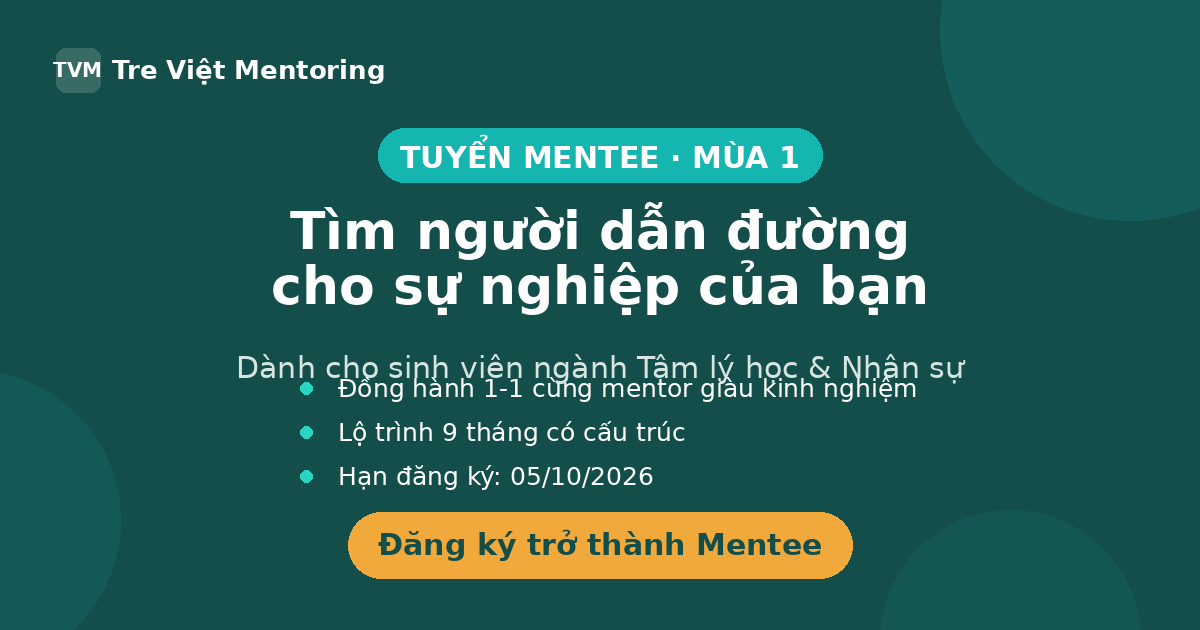
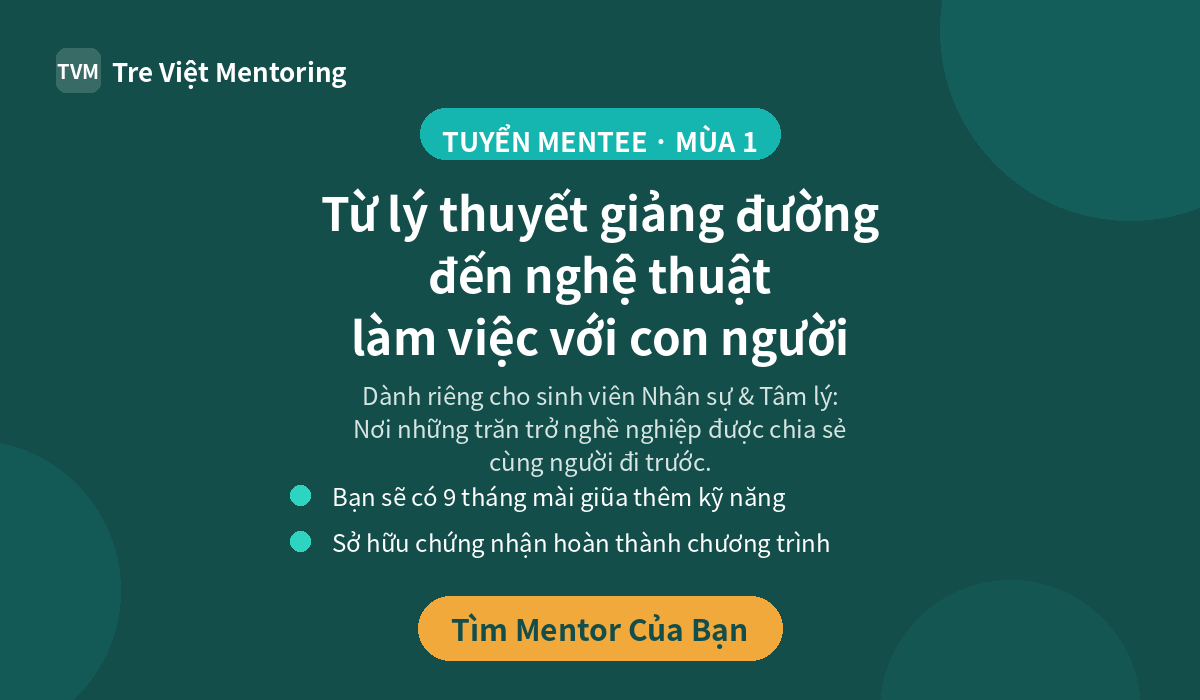
feat: chỉnh poster tuyển mentee theo hướng truyền cảm hứng (tiêu đề mới, CTA Tìm Mentor Của Bạn) + cải thiện font tiếng Việt Noto CJK + cân đối bố cục

Changed region(s): [[0.185, 0.1508, 0.8017, 0.9651], [0.0308, 0.0603, 0.3392, 0.1508]]

diff --git a/scripts/make_recruit_images.py b/scripts/make_recruit_images.py
@@ -3,7 +3,9 @@
 from PIL import Image, ImageDraw, ImageFont
 import os
 
-W, H = 1200, 630  # tỉ lệ news card ~ 1.9:1
+W = 1200
+H_MENTEE = 700
+H_MENTOR = 700
 
 # Brand Tre Việt Mentoring (khớp landing page)
 GREEN_DARK = "#134E4A"   # xanh rêu đậm (nền)
@@ -14,22 +16,17 @@ WHITE = "#FFFFFF"
 GOLD = "#F2A93B"         # nhấn amber (dùng tiết chế)
 MUTED = "#D7E5E2"        # chữ phụ trên nền tối
 
-FONT_DIR = "/usr/share/fonts/truetype"
+FONT_DIR = "/usr/share/fonts"
 def find_font(names):
     for root, _, files in os.walk(FONT_DIR):
         for f in files:
             if f.lower() in names:
                 return os.path.join(root, f)
-    for root, _, files in os.walk(FONT_DIR):
-        for f in files:
-            if f.lower().endswith((".ttf", ".otf")):
-                # fallback: ưu tiên DejaVu
-                if "dejavu" in f.lower():
-                    return os.path.join(root, f)
     return None
 
-BOLD = find_font({"dejavusans-bold.ttf", "dejavusans-bold.obf"})
-REG  = find_font({"dejavusans.ttf", "dejavusans.obf"})
+# Ưu tiên font Noto Sans CJK (hỗ trợ đầy đủ tiếng Việt), fallback DejaVu
+BOLD = find_font({"notosanscjk-bold.ttc"}) or find_font({"notosanscjk-regular.ttc"}) or find_font({"dejavusans-bold.ttf"})
+REG  = find_font({"notosanscjk-regular.ttc"}) or find_font({"dejavusans.ttf"})
 print("BOLD:", BOLD)
 print("REG:", REG)
 
@@ -42,13 +39,13 @@ def rounded(draw, xy, r, fill):
     except TypeError:
         draw.rectangle(xy, fill=fill)
 
-def base():
-    img = Image.new("RGB", (W, H), GREEN_DARK)
+def base(h):
+    img = Image.new("RGB", (W, h), GREEN_DARK)
     d = ImageDraw.Draw(img, "RGBA")
     # lớp trang trí: vòng tròn mờ teal
     d.ellipse([W-260, -160, W+120, 220], fill=(21,181,176, 40))
-    d.ellipse([-180, H-260, 120, H+40], fill=(21,181,176, 28))
-    d.ellipse([W-320, H-120, W-60, H+140], fill=(21,181,176, 20))
+    d.ellipse([-180, h-260, 120, h+40], fill=(21,181,176, 28))
+    d.ellipse([W-320, h-120, W-60, h+140], fill=(21,181,176, 20))
     return img, d
 
 def pill(d, text, cx, y, bg=TEAL, fg=WHITE, sz=30):
@@ -68,40 +65,41 @@ def logo(d):
     d.text((112, 70), "Tre Việt Mentoring", font=f, fill=WHITE, anchor="lm")
 
 def make_mentee():
-    img, d = base()
+    h = H_MENTEE
+    img, d = base(h)
     logo(d)
-    y = 128
-    y = pill(d, "TUYỂN MENTEE · MÙA 1", W//2, y, bg=TEAL, fg=WHITE, sz=30)
+    y = 108
+    y = pill(d, "TUYỂN MENTEE · MÙA 1", W//2, y, bg=TEAL, fg=WHITE, sz=27)
     # tiêu đề chính
     d.multiline_text(
-        (W//2, y), "Tìm người dẫn đường\ncho sự nghiệp của bạn",
-        font=font(52, True), fill=WHITE, anchor="ma", align="center", spacing=6)
-    y += 150
-    # dòng phụ
-    d.text((W//2, y), "Dành cho sinh viên ngành Tâm lý học & Nhân sự",
-           font=font(30, False), fill=MUTED, anchor="ma")
-    y += 50
-    # 3 điểm chính (xếp dọc để không chồng lấn)
-    items = ["Đồng hành 1-1 cùng mentor giàu kinh nghiệm",
-             "Lộ trình 9 tháng có cấu trúc",
-             "Hạn đăng ký: 05/10/2026"]
+        (W//2, y), "Từ lý thuyết giảng đường\nđến nghệ thuật\nlàm việc với con người",
+        font=font(46, True), fill=WHITE, anchor="ma", align="center", spacing=8)
+    y += 200
+    # dòng phụ (truyền cảm hứng)
+    sub = "Dành riêng cho sinh viên Nhân sự & Tâm lý:\nNơi những trăn trở nghề nghiệp được chia sẻ\ncùng người đi trước."
+    d.multiline_text((W//2, y), sub, font=font(24, False), fill=MUTED,
+                     anchor="ma", align="center", spacing=5)
+    y += 132
+    # 2 điểm chính
+    items = ["Bạn sẽ có 9 tháng mài giũa thêm kỹ năng",
+             "Sở hữu chứng nhận hoàn thành chương trình"]
     for it in items:
         cy = y
-        d.ellipse([W//2-300, cy-18, W//2-288, cy-6], fill=TEAL_BRIGHT)
-        d.text((W//2-262, cy-12), it, font=font(25, False), fill=WHITE, anchor="lm")
-        y += 44
-    y += 4
-    # nút CTA (màu đặc)
-    btn = "Đăng ký trở thành Mentee"
+        d.ellipse([W//2-310, cy-24, W//2-290, cy-4], fill=TEAL_BRIGHT)
+        d.text((W//2-268, cy-14), it, font=font(24, False), fill=WHITE, anchor="lm")
+        y += 46
+    # nút CTA (màu đặc) - đặt sát đáy, tách khỏi nội dung
+    btn = "Tìm Mentor Của Bạn"
     fb = font(30, True)
     bw = d.textlength(btn, font=fb)
-    box = [W//2 - bw/2 - 30, H-118, W//2 + bw/2 + 30, H-52]
-    rounded(d, box, 33, fill=GOLD)
-    d.text((W//2, H-85), btn, font=fb, fill=GREEN_DARK, anchor="mm")
+    box = [W//2 - bw/2 - 34, h-104, W//2 + bw/2 + 34, h-40]
+    rounded(d, box, 32, fill=GOLD)
+    d.text((W//2, h-72), btn, font=fb, fill=GREEN_DARK, anchor="mm")
     return img
 
 def make_mentor():
-    img, d = base()
+    h = H_MENTOR
+    img, d = base(h)
     logo(d)
     y = 128
     y = pill(d, "TUYỂN MENTOR", W//2, y, bg=TEAL, fg=WHITE, sz=30)
@@ -109,24 +107,30 @@ def make_mentor():
         (W//2, y), "Dẫn dắt thế hệ kế tiếp\n\"Tre già măng mọc\"",
         font=font(52, True), fill=WHITE, anchor="ma", align="center", spacing=6)
     y += 150
-    d.text((W//2, y), "Dành cho chuyên gia Tâm lý & Nhân sự từ 5 năm kinh nghiệm",
-           font=font(30, False), fill=MUTED, anchor="ma")
-    y += 50
+    d.multiline_text(
+        (W//2, y), "Dành cho chuyên gia Tâm lý & Nhân sự\ntừ 5 năm kinh nghiệm",
+        font=font(28, False), fill=MUTED, anchor="ma", align="center", spacing=4)
+    y += 108
     items = ["Đồng hành 1-1 cùng mentee trong 9 tháng",
              "Trao truyền kinh nghiệm thực chiến",
              "Hạn đăng ký: 05/10/2026"]
+    f_it = font(25, False)
     for it in items:
+        tw = d.textlength(it, font=f_it)
+        # canh giữa cụm bullet + text
+        total = 22 + tw
+        start_x = (W - total) / 2
         cy = y
-        d.ellipse([W//2-300, cy-18, W//2-288, cy-6], fill=TEAL_BRIGHT)
-        d.text((W//2-262, cy-12), it, font=font(25, False), fill=WHITE, anchor="lm")
-        y += 44
-    y += 4
+        d.ellipse([start_x, cy-19, start_x+12, cy-7], fill=TEAL_BRIGHT)
+        d.text((start_x+22, cy-13), it, font=f_it, fill=WHITE, anchor="lm")
+        y += 48
+    y += 6
     btn = "Đăng ký trở thành Mentor"
     fb = font(30, True)
     bw = d.textlength(btn, font=fb)
-    box = [W//2 - bw/2 - 30, H-118, W//2 + bw/2 + 30, H-52]
+    box = [W//2 - bw/2 - 30, h-118, W//2 + bw/2 + 30, h-52]
     rounded(d, box, 33, fill=GOLD)
-    d.text((W//2, H-85), btn, font=fb, fill=GREEN_DARK, anchor="mm")
+    d.text((W//2, h-85), btn, font=fb, fill=GREEN_DARK, anchor="mm")
     return img
 
 out_dir = os.path.join(os.path.dirname(__file__), "assets")
